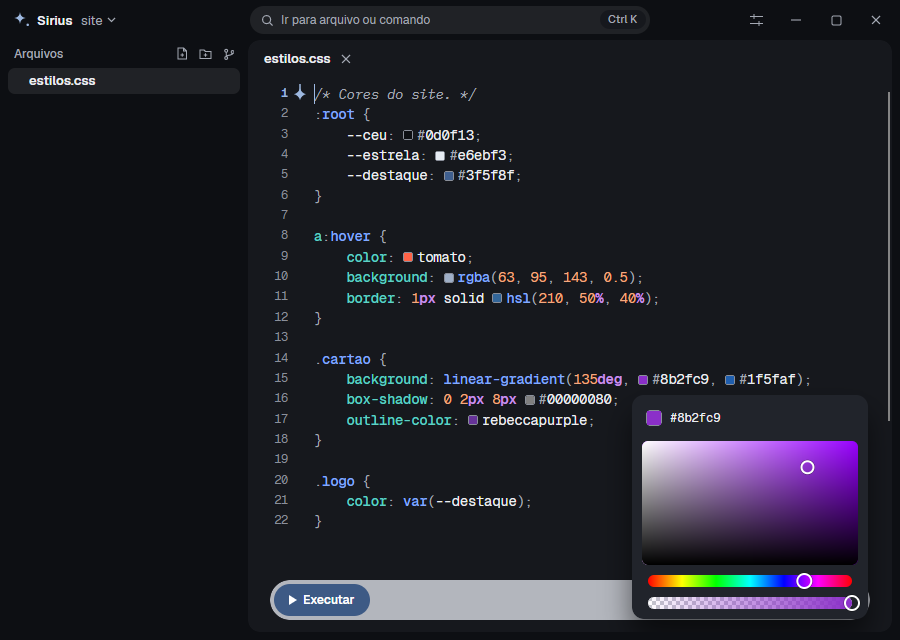
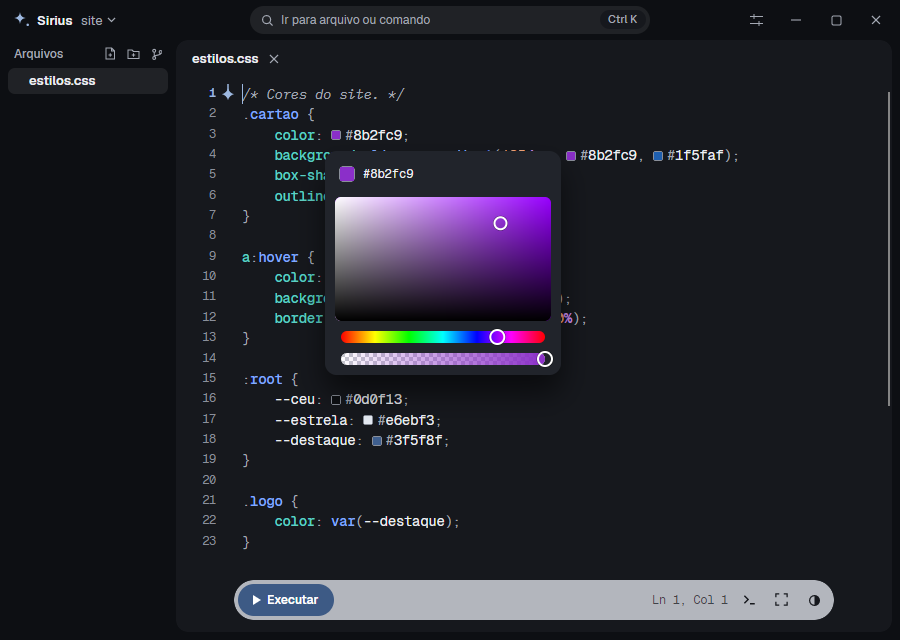
Site: o cartão das cores mostra a janela inteira
O print era recortado 150 px para cima e 90 px para a esquerda, e a janela
aparecia cortada no meio da margem, sem barra de título. Agora o seletor
abre na linha 3, com a árvore estreita, e o cartão usa o mesmo recorte dos
outros, um pouco menor para o seletor caber até em 1060 px.

diff --git a/docs/site.css b/docs/site.css
@@ -271,7 +271,8 @@ u.s { color: var(--st); text-decoration: none; } u.n { color: var(--nu); text-de
 .card:hover .shot img { transform: scale(1.012); }
 .card:not(.wide) .shot { max-height: 330px; margin-right: 0; }
 .card:not(.wide) .shot img { width: 760px; max-width: none; border-radius: 10px 0 0 0; }
-.card:not(.wide) .shot-end img { width: 660px; margin: -150px 0 0 -90px; border-radius: 0; }
+/* Um pouco menor, para o seletor de cor caber inteiro até na tela mais estreita com duas colunas. */
+.card:not(.wide) .shot-picker img { width: 680px; }
 .shot-top img { margin-top: -10px; }
 kbd { display: inline-block; padding: .04em .42em; border-radius: .32em; background: var(--tint); font: 500 .78em Geist, sans-serif; letter-spacing: 0; vertical-align: .08em; }
 
@@ -341,7 +342,7 @@ footer p:first-child { display: flex; flex-wrap: wrap; justify-content: center; 
   .bento, .facts, .notes { grid-template-columns: 1fr; }
   .card { min-height: 0; }
   .card:not(.wide) .shot { max-height: none; margin-right: clamp(26px, 3.2vw, 44px); }
-  .card:not(.wide) .shot img, .card:not(.wide) .shot-end img { width: 100%; margin: 0; border-radius: 10px 10px 0 0; }
+  .card:not(.wide) .shot img { width: 100%; margin: 0; border-radius: 10px 10px 0 0; }
   .hero-shot img { border-radius: 8px; }
 }
 

diff --git a/docs/index.html b/docs/index.html
@@ -194,7 +194,7 @@
         <h3>Um quadradinho em cada cor.</h3>
         <p>Clique nele e um seletor altera o texto na hora, em CSS, SCSS, Sass e Less, e dentro de HTML e PHP.</p>
       </div>
-      <div class="shot shot-end">
+      <div class="shot shot-picker">
         <img loading="lazy" src="screenshot-cores.png" width="900" height="640" alt="Arquivo CSS com um quadradinho na frente de cada cor e o seletor aberto">
       </div>
     </article>
